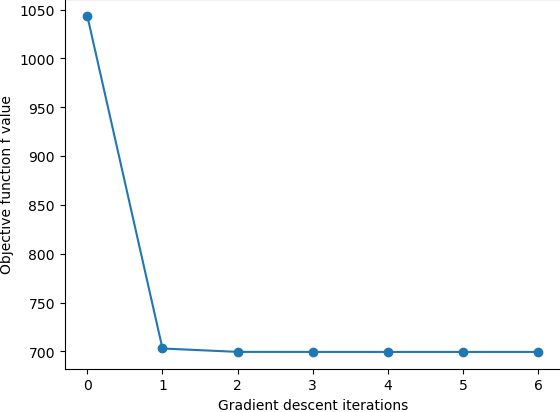
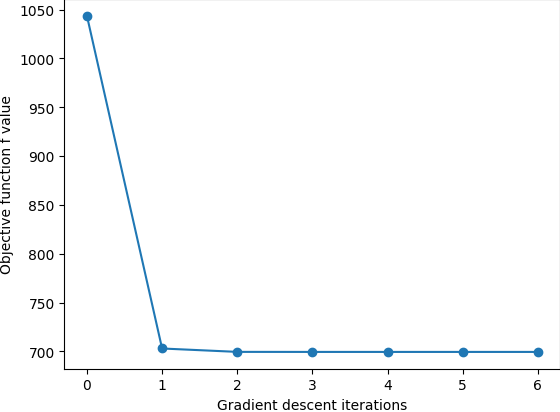
completing project 5

diff --git a/project5/code/main.py b/project5/code/main.py
@@ -110,13 +110,54 @@ def q1_2():
 
     sigmas = 10.0 ** np.array([-2, -1, 0, 1, 2])
     lammys = 10.0 ** np.array([-4, -3, -2, -1, 0, 1, 2])
-
-    # train_errs[i, j] should be the train error for sigmas[i], lammys[j]
+    
     train_errs = np.full((len(sigmas), len(lammys)), 100.0)
     val_errs = np.full((len(sigmas), len(lammys)), 100.0)  # same for val
+    optimizer = GradientDescentLineSearch()
+    for i in range(len(sigmas)):
+        for j in range(len(lammys)):
+            loss_fn = KernelLogisticRegressionLossL2(lammys[j])
+            kernel_rbf = GaussianRBFKernel(sigmas[i])
+            klr_model_rbf = KernelClassifier(loss_fn, optimizer, kernel_rbf)
+            klr_model_rbf.fit(X_train, y_train)
+            train_errs[i, j] = np.mean(klr_model_rbf.predict(X_train) != y_train)
+            val_errs[i, j] = np.mean(klr_model_rbf.predict(X_val) != y_val)
 
-    """YOUR CODE HERE FOR Q1.2"""
-    pass
+
+    # Hyperparameters for minimum lambda and sigma
+    ## Training Error
+    min_train_err_inx = np.unravel_index(np.argmin(train_errs, axis=None), train_errs.shape)
+    min_train_error_sigma = sigmas[min_train_err_inx[0]]
+    min_train_error_lammy = lammys[min_train_err_inx[1]]
+    min_train_error = train_errs[min_train_err_inx]
+
+    print(f"Sigma for minimum training error is {min_train_error_sigma:.4f}")
+    print(f"Lambda for minimum training error is {min_train_error_lammy:.4f}")
+    print(f"Minimum training error is {min_train_error:.1%}")
+
+    loss_fn = KernelLogisticRegressionLossL2(min_train_error_lammy)
+    kernel_rbf = GaussianRBFKernel(min_train_error_sigma)
+    klr_model_rbf_min_training_error = KernelClassifier(loss_fn, optimizer, kernel_rbf)
+    klr_model_rbf_min_training_error.fit(X_train, y_train)
+    fig = plot_classifier(klr_model_rbf_min_training_error, X_train, y_train)
+    savefig("logRegRBF_min_train_error.png", fig)
+
+    ## Validation Error
+    min_val_err_inx = np.unravel_index(np.argmin(val_errs, axis=None), val_errs.shape)
+    min_val_error_sigma = sigmas[min_val_err_inx[0]]
+    min_val_error_lammy = lammys[min_val_err_inx[1]]
+    min_valid_error = val_errs[min_val_err_inx]
+
+    print(f"Sigma for minimum validation error is {min_val_error_sigma:.4f}")
+    print(f"Lambda for minimum validation error is {min_val_error_lammy:.4f}")
+    print(f"Minimum validation error is {min_valid_error:.1%}")
+
+    loss_fn = KernelLogisticRegressionLossL2(min_val_error_lammy)
+    kernel_rbf = GaussianRBFKernel(min_val_error_sigma)
+    klr_model_rbf_min_valid_error = KernelClassifier(loss_fn, optimizer, kernel_rbf)
+    klr_model_rbf_min_valid_error.fit(X_train, y_train)
+    fig = plot_classifier(klr_model_rbf_min_valid_error, X_train, y_train)
+    savefig("logRegRBF_min_valid_error.png", fig)
 
     # Make a picture with the two error arrays. No need to worry about details here.
     fig, axes = plt.subplots(1, 2, figsize=(12, 5), constrained_layout=True)
@@ -134,7 +175,6 @@ def q1_2():
         ax.xaxis.set_ticks_position("bottom")
     fig.colorbar(cax)
     savefig("logRegRBF_grids.png", fig)
-
 
 @handle("3.2")
 def q3_2():
@@ -166,8 +206,35 @@ def q3_2():
     savefig("animals_random.png", fig)
     plt.close(fig)
 
-    """YOUR CODE HERE FOR Q3"""
-    pass
+    PCA_encoder = PCAEncoder(2)
+    PCA_encoder.fit(X_train_standardized)
+    W = PCA_encoder.W
+    Z = X_train_standardized @ W.T
+    fig, ax = plt.subplots()
+    ax.scatter(Z[:, 0], Z[:, 1])
+    for i in random_is:
+        xy = Z[i, [0, 1]]
+        ax.annotate(animal_names[i], xy=xy)
+    savefig("animals_PCA.png", fig)
+    plt.close(fig)
+
+    print(f"the trait with largest absolute value of Z1 is {trait_names[np.argmax(np.abs(W), axis = 1)[0]]}")
+    print(f"the trait with largest absolute value of Z2 is {trait_names[np.argmax(np.abs(W), axis = 1)[1]]}")
+
+    reconstruction_loss = np.linalg.norm(Z@W-X_train_standardized)**2
+    X_train_standardized_norm = np.linalg.norm(X_train_standardized)**2
+    print(f"variance explained is {1-reconstruction_loss/X_train_standardized_norm:.2%}")
+
+    PCA_encoder = PCAEncoder(5)
+    PCA_encoder.fit(X_train_standardized)
+    W = PCA_encoder.W
+    Z = X_train_standardized @ W.T
+    reconstruction_loss = np.linalg.norm(Z@W-X_train_standardized)**2
+    X_train_standardized_norm = np.linalg.norm(X_train_standardized)**2
+    print(f"variance explained is {1-reconstruction_loss/X_train_standardized_norm:.2%}")
+
+    
+
 
 
 @handle("4")
@@ -200,8 +267,19 @@ def q4_1():
     X_train, mu, sigma = standardize_cols(X_train_orig)
     X_val, _, _ = standardize_cols(X_val_orig, mu, sigma)
 
-    """YOUR CODE HERE FOR Q4.1"""
-    pass
+    loss = LeastSquaresLoss()
+    learning_rate = ConstantLR(0.0003)
+    for i in [1,10,100]:
+        optimizer = StochasticGradient (learning_rate_getter=learning_rate, 
+                                    batch_size=i, 
+                                    base_optimizer=GradientDescent(),
+                                    max_evals= 10)
+        model  = LinearModel(loss, optimizer)
+        model.fit(X_train, y_train)
+        train_error = np.mean((model.predict(X_train) - y_train)**2)
+        valid_error = np.mean((model.predict(X_val) - y_val)**2)
+        print(f"Training error (MSE) for batch size of {i} is {train_error:.3f}")
+        print(f"Validation error (MSE) for batch size of {i} is {valid_error:.3f}")
 
 
 @handle("4.3")
@@ -210,8 +288,32 @@ def q4_3():
     X_train, mu, sigma = standardize_cols(X_train_orig)
     X_val, _, _ = standardize_cols(X_val_orig, mu, sigma)
 
-    """YOUR CODE HERE FOR Q4.3"""
-    pass
+    loss = LeastSquaresLoss()
+    c= 0.1
+    learning_rate_CLR = ConstantLR(c)
+    learning_rate_ILR = InverseLR(c)
+    learning_rate_ISLR = InverseSquaredLR(c)
+    learning_rate_ISqrtLR = InverseSqrtLR(c)
+
+    for (learning_rate, names) in [(learning_rate_CLR,"CLR"), 
+                                   (learning_rate_ILR, "ILR"), 
+                                   (learning_rate_ISLR, "ISLR"), 
+                                   (learning_rate_ISqrtLR, "ISqrtLR")]:
+        optimizer = StochasticGradient (learning_rate_getter=learning_rate, 
+                                    batch_size=10, 
+                                    base_optimizer=GradientDescent(),
+                                    max_evals= 50)
+        model  = LinearModel(loss, optimizer)
+        model.fit(X_train, y_train)
+        fig, ax = plt.subplots()
+        ax.plot(model.fs, marker="o")
+        ax.set_xlabel("Gradient descent iterations")
+        ax.set_ylabel("Objective function f value")
+        ax.set_title(f"learning rate is {names}")
+        dynamic_filename = f'gd_curve_iteration_{names}.png'
+        savefig(dynamic_filename, fig)
+
+
 
 
 if __name__ == "__main__":

diff --git a/project5/code/learning_rate_getters.py b/project5/code/learning_rate_getters.py
@@ -21,17 +21,16 @@ class ConstantLR(LearningRateGetter):
 
 class InverseLR(LearningRateGetter):
     def get_learning_rate(self):
-        """YOUR CODE HERE FOR Q4.2"""
-        pass
-
+        self.num_evals += 1
+        return self.multiplier/self.num_evals
 
 class InverseSquaredLR(LearningRateGetter):
     def get_learning_rate(self):
-        """YOUR CODE HERE FOR Q4.2"""
-        pass
+        self.num_evals += 1
+        return self.multiplier/(self.num_evals**2)
 
 
 class InverseSqrtLR(LearningRateGetter):
     def get_learning_rate(self):
-        """YOUR CODE HERE FOR Q4.2"""
-        pass
+        self.num_evals += 1
+        return self.multiplier/(np.sqrt(self.num_evals))
